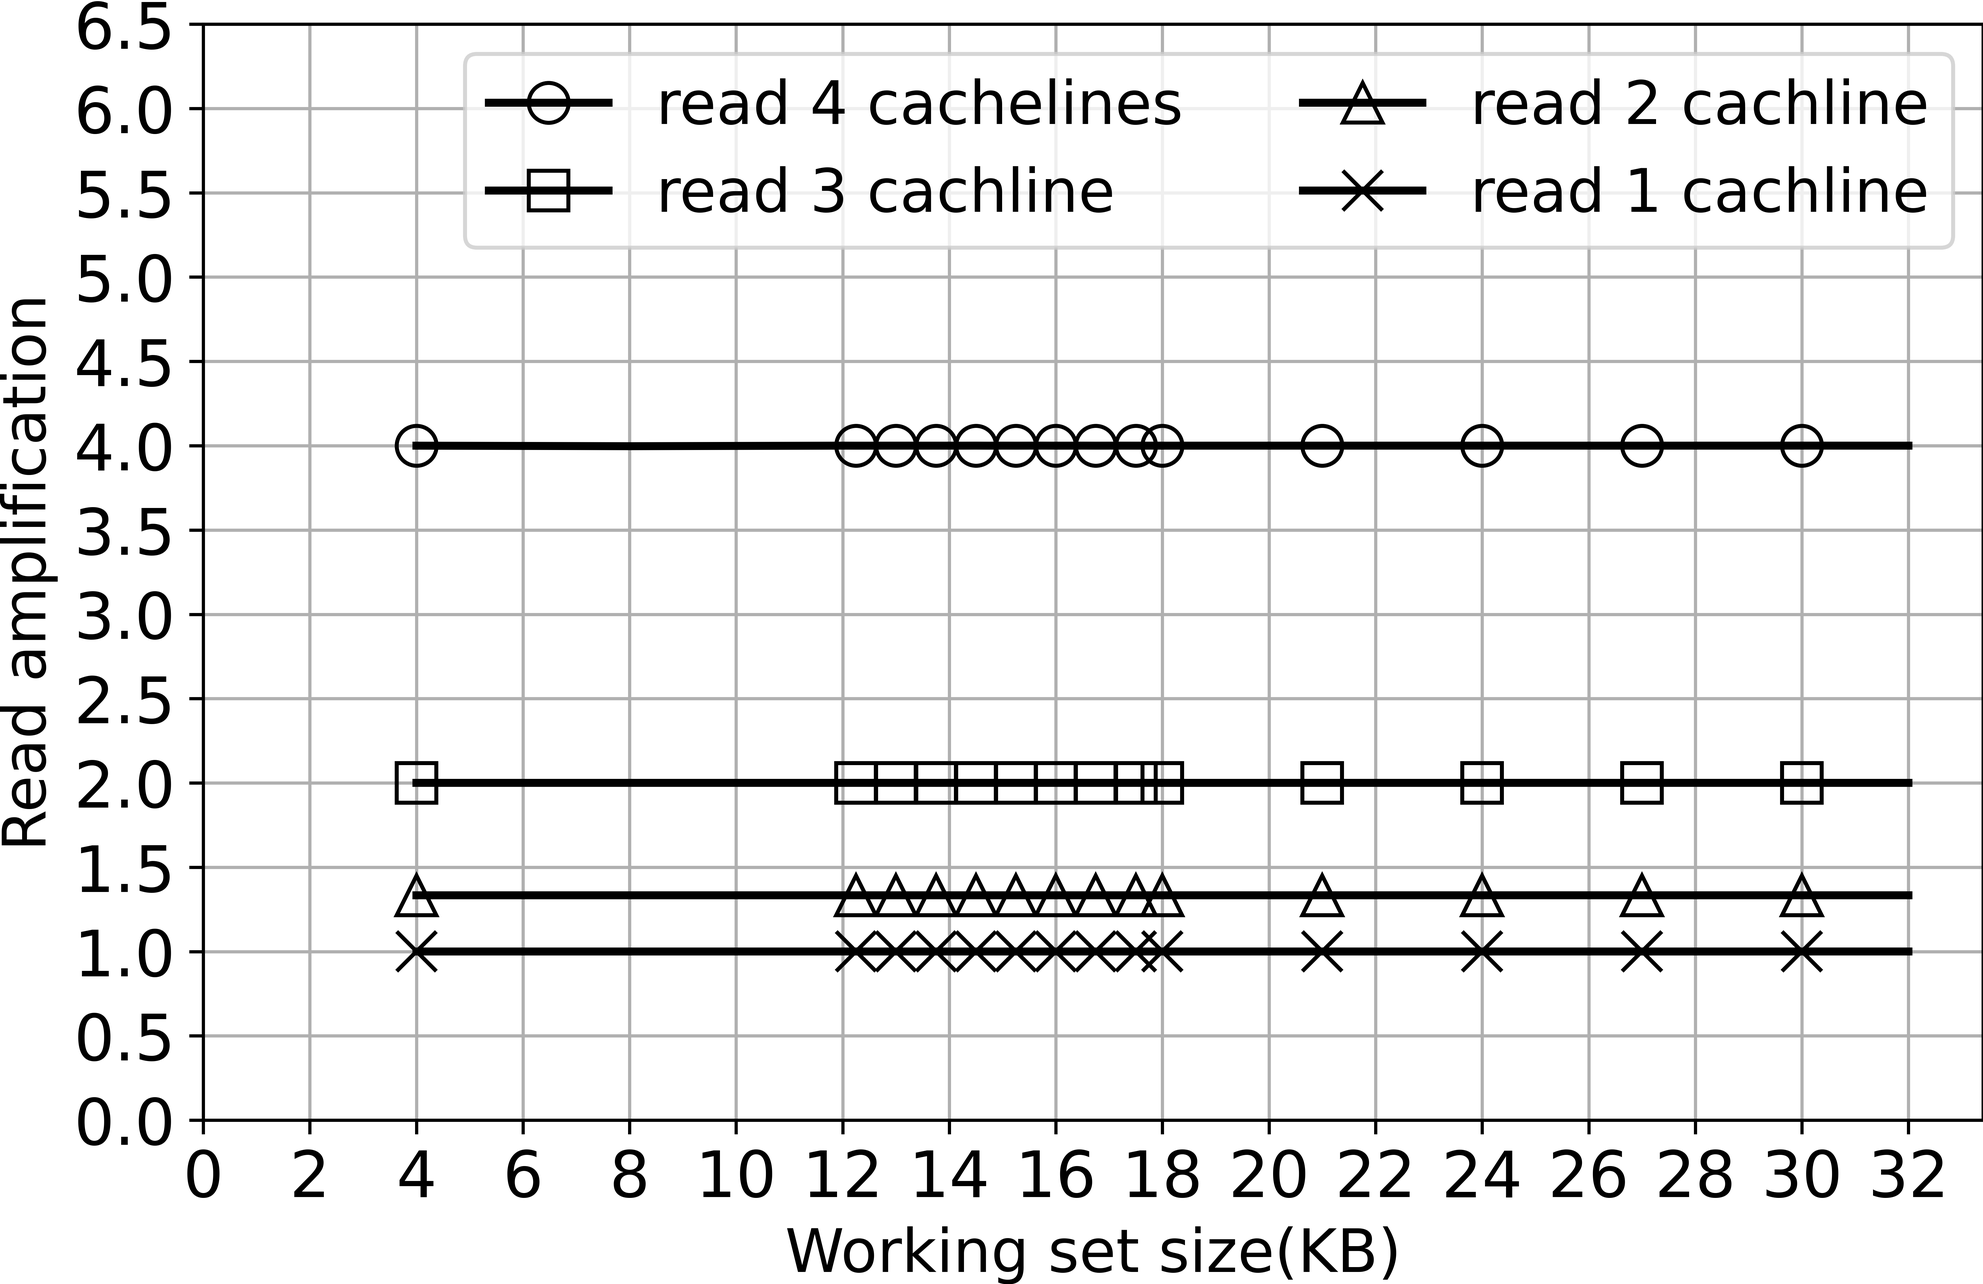
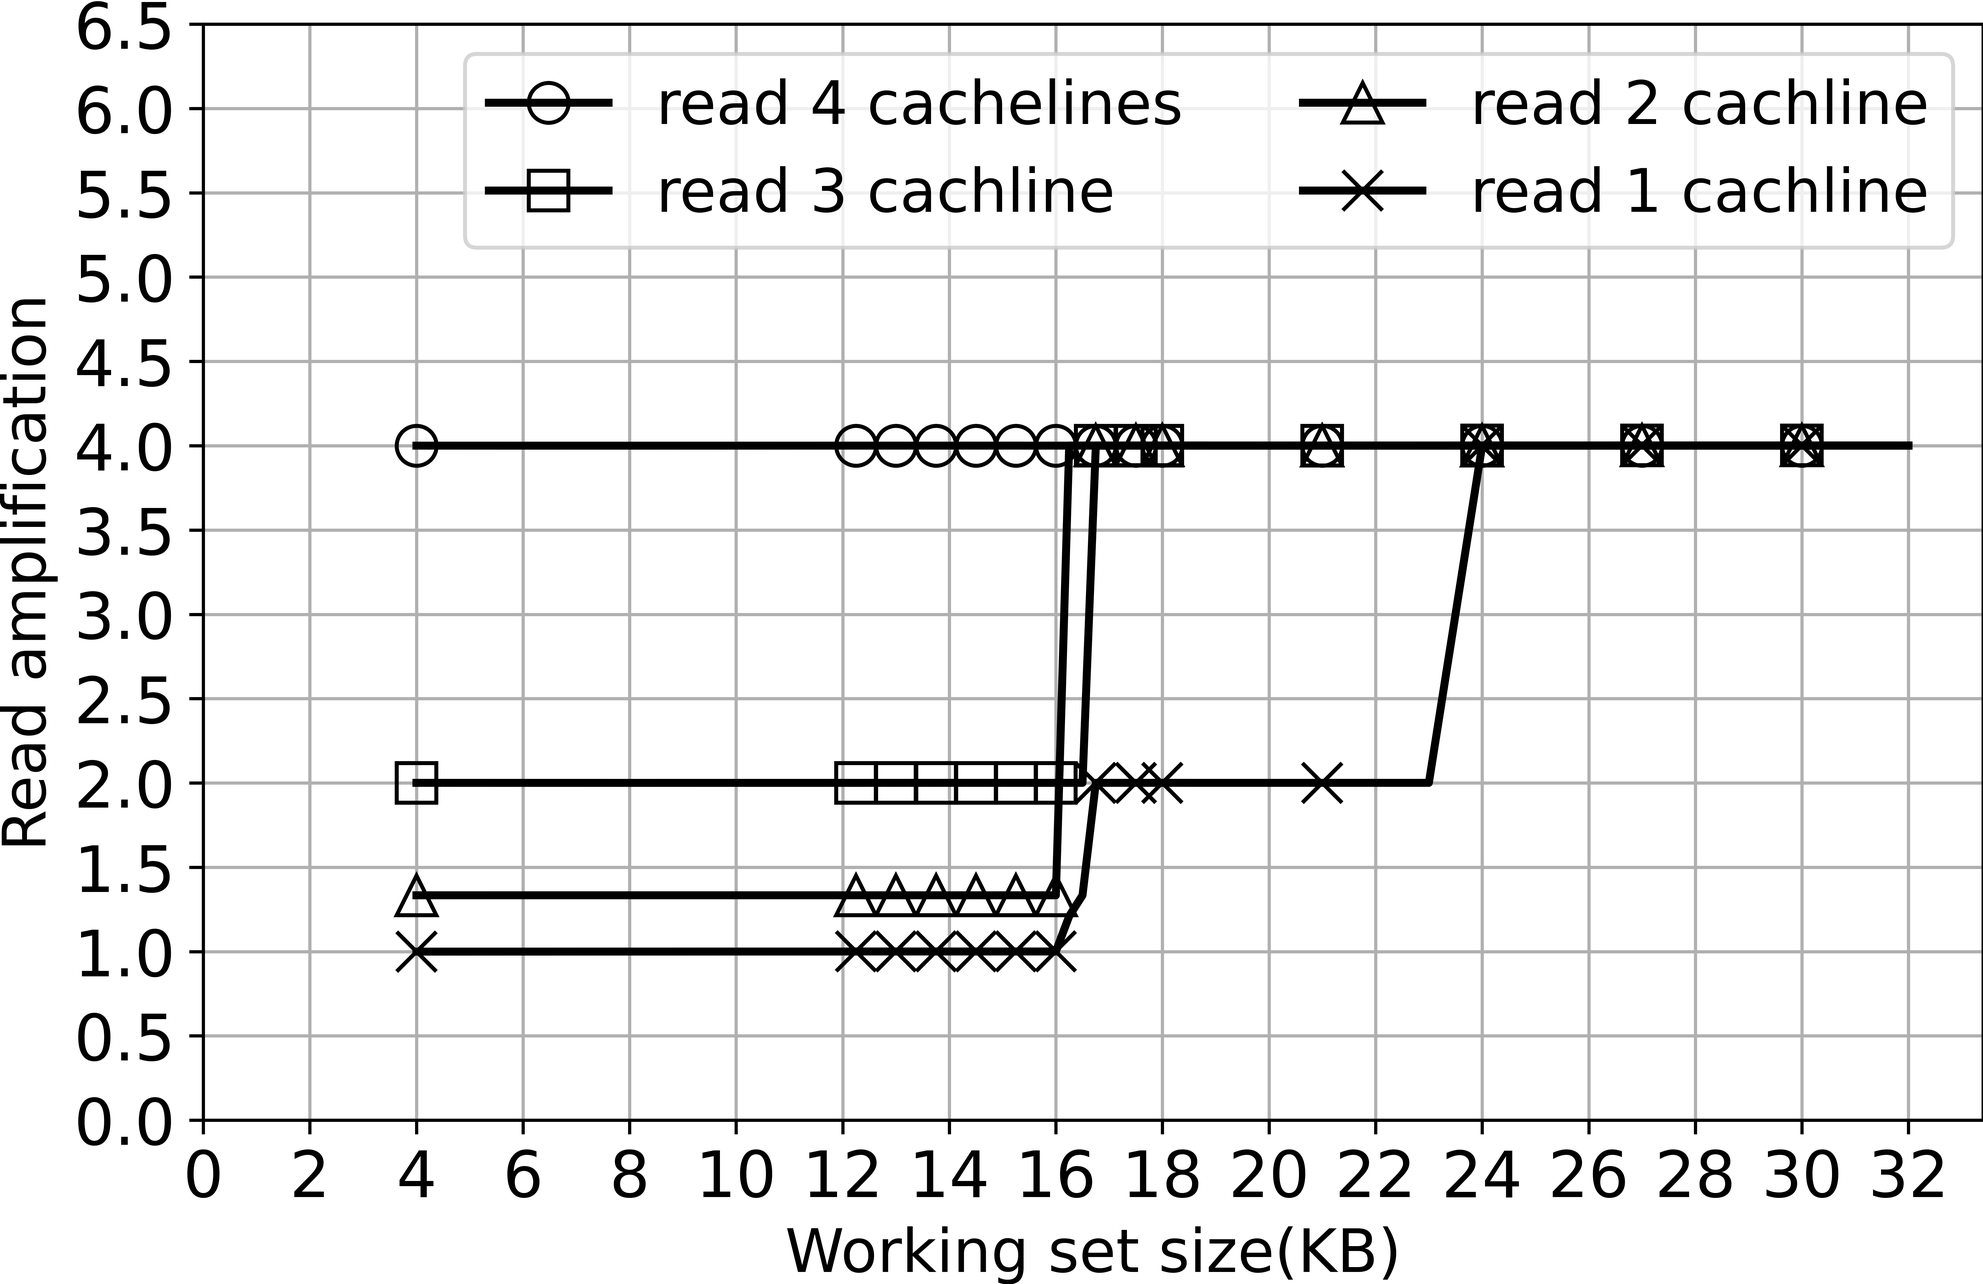
update

diff --git a/run.py b/run.py
@@ -61,34 +61,35 @@ def prepare_microbench():
 def run_microbench_except_prefetching():
     build_dir = os.path.join(this_file_dir, "build_benchmark", "bin")
 
-    init_command = "echo >" + os.path.join(tmp_dir,  "task0.log")
-    os.system(init_command)
-    rd_amp_run_cmd = "numactl -N 0 " + os.path.join(build_dir, "microbench") + " -test 0 >> " + os.path.join(tmp_dir,  "task0.log")
-    os.system(rd_amp_run_cmd)
+    # init_command = "echo >" + os.path.join(tmp_dir,  "task0.log")
+    # os.system(init_command)
+    # rd_amp_run_cmd = "numactl -N 0 " + os.path.join(build_dir, "microbench") + " -test 0 >> " + os.path.join(tmp_dir,  "task0.log")
+    # os.system(rd_amp_run_cmd)
 
-    init_command = "echo >" + os.path.join(tmp_dir,  "task2.log")
-    os.system(init_command)
-    wr_buf_run_cmd = "numactl -N 0 " + os.path.join(build_dir, "microbench") + " -test 2 >> " + os.path.join(tmp_dir,  "task2.log")
-    os.system(wr_buf_run_cmd)
+    # init_command = "echo >" + os.path.join(tmp_dir,  "task2.log")
+    # os.system(init_command)
+    # wr_buf_run_cmd = "numactl -N 0 " + os.path.join(build_dir, "microbench") + " -test 2 >> " + os.path.join(tmp_dir,  "task2.log")
+    # os.system(wr_buf_run_cmd)
 
-    init_command = "echo >" + os.path.join(tmp_dir,  "task4.log")
-    os.system(init_command)
-    seperate_rd_wr_buf_cmd = "numactl -N 0 " + os.path.join(build_dir, "microbench") + " -test 4 >> " + os.path.join(tmp_dir,  "task4.log")
-    os.system(seperate_rd_wr_buf_cmd)
+    # init_command = "echo >" + os.path.join(tmp_dir,  "task4.log")
+    # os.system(init_command)
+    # seperate_rd_wr_buf_cmd = "numactl -N 0 " + os.path.join(build_dir, "microbench") + " -test 4 >> " + os.path.join(tmp_dir,  "task4.log")
+    # os.system(seperate_rd_wr_buf_cmd)
 
-    init_command = "echo >" + os.path.join(tmp_dir,  "task5.log")
-    os.system(init_command)
-    rap_cmd = "numactl -N 0 " + os.path.join(build_dir, "microbench") + " -test 5 >> " + os.path.join(tmp_dir,  "task5.log")
-    os.system(rap_cmd)
+    # init_command = "echo >" + os.path.join(tmp_dir,  "task5.log")
+    # os.system(init_command)
+    # rap_cmd = "numactl -N 0 " + os.path.join(build_dir, "microbench") + " -test 5 >> " + os.path.join(tmp_dir,  "task5.log")
+    # os.system(rap_cmd)
 
-    init_command = "echo >" + os.path.join(tmp_dir,  "task5_dram.log")
-    os.system(init_command)
-    rap_cmd = "numactl -N 0 " + os.path.join(build_dir, "microbench") + " -nopmm -test 5 >> " + os.path.join(tmp_dir,  "task5_dram.log")
-    os.system(rap_cmd)
+    # init_command = "echo >" + os.path.join(tmp_dir,  "task5_dram.log")
+    # os.system(init_command)
+    # rap_cmd = "numactl -N 0 " + os.path.join(build_dir, "microbench") + " -nopmm -test 5 >> " + os.path.join(tmp_dir,  "task5_dram.log")
+    # os.system(rap_cmd)
 
     init_command = "echo >" + os.path.join(tmp_dir,  "task6.log")
     os.system(init_command)
     access_lat_cmd = "numactl -N 0 " + os.path.join(build_dir, "microbench") + " -test 6 >> " + os.path.join(tmp_dir,  "task6.log")
+    print(access_lat_cmd)
     os.system(access_lat_cmd)
 
 def run_microbench_prefetching():
@@ -148,14 +149,19 @@ def format_logs():
 
     os.system(python_path + " " + tool_path +
               " -log_path=" + os.path.join(tmp_dir, "task5.log") +
-              " -config_path=" + os.path.join(this_file_dir, "tools", "microbench_config5.json") +
+              " -config_path=" + os.path.join(this_file_dir, "tools", "microbench_config5_0.json") +
               " -tmp_dir=" + tmp_dir +
               " -out_dir=" + micro_bench_dir)
-    # os.system(python_path + " " + tool_path +
-    #           " -log_path=" + os.path.join(tmp_dir, "task6.log") +
-    #           " -config_path=" + os.path.join(this_file_dir, "tools", "microbench_config6.json") +
-    #           " -tmp_dir=" + tmp_dir +
-    #           " -out_dir=" + case_study_dir)
+    os.system(python_path + " " + tool_path +
+              " -log_path=" + os.path.join(tmp_dir, "task5_dram.log") +
+              " -config_path=" + os.path.join(this_file_dir, "tools", "microbench_config5_1.json") +
+              " -tmp_dir=" + tmp_dir +
+              " -out_dir=" + micro_bench_dir)              
+    os.system(python_path + " " + tool_path +
+              " -log_path=" + os.path.join(tmp_dir, "task6.log") +
+              " -config_path=" + os.path.join(this_file_dir, "tools", "microbench_config6.json") +
+              " -tmp_dir=" + tmp_dir +
+              " -out_dir=" + micro_bench_dir)
 
 def plot_results():
     pass
@@ -164,7 +170,7 @@ def plot_results():
 # run_case_study(8, "/mnt/pmem")
 
 # prepare_microbench()
-run_microbench_except_prefetching()
+# run_microbench_except_prefetching()
 
-# format_logs()
+format_logs()
 

diff --git a/tools/plot_bench_lat.py b/tools/plot_bench_lat.py
@@ -1,0 +1,105 @@
+
+import matplotlib.pyplot as plt
+import numpy as np
+import matplotlib.ticker as ticker
+import pandas as pd
+import os
+
+this_file_dir = os.path.abspath(os.path.dirname(__file__))
+
+mks = ["o", "v", "^", "<", "*", "x", "p", "s", "D", "P"]
+lineType = ["-", "--", ":", "-."]
+
+data_path = os.path.join(this_file_dir, "..", "output",
+                         "micro_bench", "microbench_lat.csv")
+df = pd.read_csv(data_path)
+xAxis = df["wss"].to_numpy()
+
+fenced_seq_clwb = df[" clwb sfence seq Ptr cycle"].to_numpy()
+fenced_rand_clwb = df[" clwb sfence rand Ptr cycle"].to_numpy()
+fenced_seq_nt = df[" nt store sfence seq Ptr cycle"].to_numpy()
+fenced_rand_nt = df[" nt store sfence rand Ptr cycle"].to_numpy()
+
+unfenced_seq_clwb = df[" clwb seq Ptr cycle"].to_numpy()
+unfenced_rand_clwb = df[" clwb rand Ptr cycle"].to_numpy()
+unfenced_seq_nt = df[" nt store seq Ptr cycle"].to_numpy()
+unfenced_rand_nt = df[" nt store rand Ptr cycle"].to_numpy()
+
+
+seq_rd = df[" rd seq Ptr cycle"].to_numpy()
+rand_rd = df[" rd rand Ptr cycle"].to_numpy()
+calc_offset_seq_nt = df[" nt store seq Calc cycle"].to_numpy()
+calc_offset_rand_nt = df[" nt store rand Calc cycle"].to_numpy()
+fig, (ax0, ax1, ax2) = plt.subplots(1, 3, figsize=(24, 4.7))
+
+ax0.plot(xAxis, fenced_seq_clwb, mks[0]+lineType[0], markerfacecolor='none',
+         label="seq_clwb", color="black", markersize=10, linewidth=2)
+ax0.plot(xAxis, fenced_rand_clwb, mks[1]+lineType[0], markerfacecolor='none',
+         label="rand_clwb", color="black", markersize=10, linewidth=2)
+ax0.plot(xAxis, fenced_seq_nt, mks[2]+lineType[1], markerfacecolor='none',
+         label="seq_nt-store", color="black", markersize=10, linewidth=2)
+ax0.plot(xAxis, fenced_rand_nt, mks[3]+lineType[1], markerfacecolor='none',
+         label="rand_nt-store", color="black", markersize=10, linewidth=2)
+
+ax1.plot(xAxis, unfenced_seq_clwb,
+         mks[0]+lineType[0], markerfacecolor='none', color="black", markersize=10, linewidth=2)
+ax1.plot(xAxis, unfenced_rand_clwb,
+         mks[1]+lineType[0], markerfacecolor='none', color="black", markersize=10, linewidth=2)
+ax1.plot(xAxis, unfenced_seq_nt, mks[2]+lineType[1],
+         markerfacecolor='none', color="black", markersize=10, linewidth=2)
+ax1.plot(xAxis, unfenced_rand_nt, mks[3]+lineType[1],
+         markerfacecolor='none', color="black", markersize=10, linewidth=2)
+
+ax2.plot(xAxis, seq_rd, mks[4]+lineType[0], markerfacecolor='none',
+         label="seq_rd", color="black", markersize=10, linewidth=2)
+ax2.plot(xAxis, rand_rd, mks[5]+lineType[0], markerfacecolor='none',
+         label="rand_rd", color="black", markersize=10, linewidth=2)
+ax2.plot(xAxis, calc_offset_seq_nt, mks[2]+lineType[1],
+         markerfacecolor='none',  color="black", markersize=10, linewidth=2)
+ax2.plot(xAxis, calc_offset_rand_nt,
+         mks[3]+lineType[1], markerfacecolor='none', color="black", markersize=10, linewidth=2)
+
+ax0.set_xscale('log', basex=2)
+ax0.set_xticks(np.logspace(12, 32, 11, base=2))
+ax0.set_yticks(np.arange(0, 1400, 200.0))
+ax0.tick_params(axis='y', labelsize=16)
+ax0.tick_params(axis='x', labelsize=16)
+ax0.set_ylabel("Latency (CPU cycle per element)", fontsize=16)
+ax0.set_xlabel("Working set size (byte)", fontsize=16)
+
+ax1.sharey(ax0)
+ax1.set_xscale('log', basex=2)
+ax1.set_xticks(np.logspace(12, 32, 11, base=2))
+ax1.set_yticks(np.arange(0, 1400, 200.0))
+ax1.tick_params(axis='y', labelsize=16)
+ax1.tick_params(axis='x', labelsize=16)
+ax1.set_xlabel("Working set size (byte)", fontsize=16)
+
+ax2.sharey(ax0)
+ax2.set_xscale('log', basex=2)
+ax2.set_xticks(np.logspace(12, 32, 11, base=2))
+ax2.set_yticks(np.arange(0, 1400, 200.0))
+ax2.tick_params(axis='y', labelsize=16)
+ax2.tick_params(axis='x', labelsize=16)
+ax2.set_xlabel("Working set size (byte)", fontsize=16)
+
+ax0.set_title('(a) Write with strict persistency', fontsize=16, y=-0.3)
+ax0.set_title('(b) Write with relaxed persistency', fontsize=16, y=-0.3)
+ax2.set_title('(c) Latency breakdown of pure reads and writes',
+              fontsize=16, y=-0.3)
+
+
+ax0.grid(linestyle='--')
+ax1.grid(linestyle='--')
+ax2.grid(linestyle='--')
+
+ax0.label_outer()
+ax1.label_outer()
+ax2.label_outer()
+
+
+fig.legend(fontsize=16, loc='upper center', ncol=6, bbox_to_anchor=(0.5, 1.02))
+
+foo_fig = plt.gcf()  # 'get current figure'
+foo_fig.savefig(os.path.join(this_file_dir, "..", "output", "micro_bench", "lat.png"),
+                bbox_inches='tight', format='png', dpi=1000, pad_inches=0.0)

diff --git a/tools/plot_bench_read_after_persist.py b/tools/plot_bench_read_after_persist.py
@@ -11,28 +11,25 @@ lineType = ["-", "--",":", "-." ]
 
 
 data_path_pm = os.path.join(this_file_dir, "..", "output", "micro_bench", "microbench_read_after_persist.csv")
+data_path_dram = os.path.join(this_file_dir, "..", "output", "micro_bench", "microbench_read_after_persist_dram.csv")
 
-df = pd.read_csv(data_path_pm)
-
-distance= df["distance"].to_numpy()
-
-path = "./read_after_flush.txt"
-textdata = np.loadtxt(path)
-distance= textdata[:,0]
-CPU_cycle_pm_mfence = textdata[:,1]
-CPU_cycle_pm_sfence = textdata[:,2]
-CPU_cycle_dram_sfence= textdata[:,3]
-CPU_cycle_dram_mfence= textdata[:,4]
-CPU_cycle_pm_nt_mfence= textdata[:,5]
-CPU_cycle_pm_nt_sfence= textdata[:,5]
+df_pm = pd.read_csv(data_path_pm)
+df_dram = pd.read_csv(data_path_dram)
+distance = df_pm["distance"].to_numpy()[0:45]
+CPU_cycle_pm_mfence = df_pm[" wr_clwb_mfence RAP lat"].to_numpy()[0:45]
+CPU_cycle_pm_sfence = df_pm[" wr_clwb_sfence RAP lat"].to_numpy()[0:45]
+CPU_cycle_dram_mfence= df_dram[" wr_clwb_mfence RAP lat"].to_numpy()[0:45]
+CPU_cycle_dram_sfence= df_dram[" wr_clwb_sfence RAP lat"].to_numpy()[0:45]
+CPU_cycle_pm_nt_mfence= df_pm[" wr_nt_mfence RAP lat"].to_numpy()[0:45]
+CPU_cycle_pm_nt_sfence= df_pm[" wr_nt_sfence RAP lat"].to_numpy()[0:45]
 
 fig, ax1 = plt.subplots(figsize = (8,4.96))
 plt.grid()
 plot0=ax1.plot(distance,CPU_cycle_pm_mfence,mks[0]+lineType[0], label = "PM clwb + mfence",markevery=3, markerfacecolor='none', color = "black", markersize = 10, linewidth=2)
 plot3=ax1.plot(distance,CPU_cycle_pm_sfence,mks[1]+lineType[1], label = "PM clwb + sfence",markevery=3, markerfacecolor='none', color = "black", markersize = 10, linewidth=2)
 plot7=ax1.plot(distance,CPU_cycle_pm_nt_sfence,"D"+lineType[1], label = "PM nt-store + sfence",markevery=3, markerfacecolor='none', color = "black", markersize = 10, linewidth=2)
-plot4=ax1.plot(distance,CPU_cycle_dram_sfence,"s"+lineType[0], label = "DRAM clwb + mfence",markevery=3, markerfacecolor='none', color = "black", markersize = 10, linewidth=2)
-plot5=ax1.plot(distance,CPU_cycle_dram_mfence,mks[10]+lineType[1], label = "DRAM clwb + sfence",markevery=3, markerfacecolor='none', color = "black", markersize = 10, linewidth=2)
+plot4=ax1.plot(distance,CPU_cycle_dram_sfence,"s"+lineType[0], label = "DRAM clwb + sfence",markevery=3, markerfacecolor='none', color = "black", markersize = 10, linewidth=2)
+plot5=ax1.plot(distance,CPU_cycle_dram_mfence,mks[10]+lineType[1], label = "DRAM clwb + mfence",markevery=3, markerfacecolor='none', color = "black", markersize = 10, linewidth=2)
 
 ax1.set_ylim(-200,2800)
 # ax2.set_ylim(-1.5,7)
@@ -49,4 +46,4 @@ ax1.legend(fontsize = 16)
 # ax2.set_ylabel('write back ratio (media write/memory controller write)')
 
 foo_fig = plt.gcf() # 'get current figure'
-foo_fig.savefig('./read_after_flush.eps',bbox_inches='tight', format='eps', dpi=1000,pad_inches=0.0)
+foo_fig.savefig(os.path.join(this_file_dir, "..", "output", "micro_bench", "read_after_persist.png"),bbox_inches='tight', format='png', dpi=1000,pad_inches=0.0)

diff --git a/micro_benchmarks/cases/lat.cpp b/micro_benchmarks/cases/lat.cpp
@@ -237,7 +237,9 @@ void access_lat(void *addr, uint64_t max_size)
                 lat += item.avg_cycles_;
             }
             std::cout << "-------result--------" << std::endl;
-            std::cout << results.at(0).work_type_ << " " << results.at(0).order_ << std::endl;
+            std::cout << results.at(0).work_type_ << " "
+                      << results.at(0).traverse_type_ << " "
+                      << results.at(0).order_ << std::endl;
             std::cout << "[imc wr]:[" << imc_write
                       << "] [imc rd]:[" << imc_read
                       << "] [media wr]:[" << media_write

diff --git a/README.md b/README.md
@@ -1,5 +1,123 @@
+
+# How
 libvmem-dev
 libpmemobj-dev
 libssl-dev
 libgflags-dev 
 numactl
+
+# Persistent memory study
+
+Implementaion of paper **Characterizing the Performance of Intel Optane Persistent Memory -- A Close Look at its On-DIMM Buffering**
+
+This paper is to appear in EuroSys 2022.
+
+## Table of Contents
+
+- [Background](#background)
+- [Prerequisites](#prerequisites)
+- [Usage](#usage)
+	- [Generator](#generator)
+- [Badge](#badge)
+- [Example Readmes](#example-readmes)
+- [Related Efforts](#related-efforts)
+- [Maintainers](#maintainers)
+- [Contributing](#contributing)
+- [License](#license)
+
+## Background
+
+## Prerequisites
+
+### Hardware requirements
+Your machine 
+
+Please make sure your machine supports AVX512, CLWB, CLFLUSH and CLFLUSHOPT instruction sets. The persistent memory should be configured as non-interleaved, and we get all the results on a single Optane DC Persistent memory DIMM.
+### Software requirements
+
+
+Standard Readme started with the issue originally posed by [@maxogden](https://github.com/maxogden) over at [feross/standard](https://github.com/feross/standard) in [this issue](https://github.com/feross/standard/issues/141), about whether or not a tool to standardize readmes would be useful. A lot of that discussion ended up in [zcei's standard-readme](https://github.com/zcei/standard-readme/issues/1) repository. While working on maintaining the [IPFS](https://github.com/ipfs) repositories, I needed a way to standardize Readmes across that organization. This specification started as a result of that.
+
+> Your documentation is complete when someone can use your module without ever
+having to look at its code. This is very important. This makes it possible for
+you to separate your module's documented interface from its internal
+implementation (guts). This is good because it means that you are free to
+change the module's internals as long as the interface remains the same.
+
+> Remember: the documentation, not the code, defines what a module does.
+
+~ [Ken Williams, Perl Hackers](http://mathforum.org/ken/perl_modules.html#document)
+
+Writing READMEs is way too hard, and keeping them maintained is difficult. By offloading this process - making writing easier, making editing easier, making it clear whether or not an edit is up to spec or not - you can spend less time worrying about whether or not your initial documentation is good, and spend more time writing and using code.
+
+By having a standard, users can spend less time searching for the information they want. They can also build tools to gather search terms from descriptions, to automatically run example code, to check licensing, and so on.
+
+The goals for this repository are:
+
+1. A well defined **specification**. This can be found in the [Spec document](spec.md). It is a constant work in progress; please open issues to discuss changes.
+2. **An example README**. This Readme is fully standard-readme compliant, and there are more examples in the `example-readmes` folder.
+3. A **linter** that can be used to look at errors in a given Readme. Please refer to the [tracking issue](https://github.com/RichardLitt/standard-readme/issues/5).
+4. A **generator** that can be used to quickly scaffold out new READMEs. See [generator-standard-readme](https://github.com/RichardLitt/generator-standard-readme).
+5. A **compliant badge** for users. See [the badge](#badge).
+
+## Install
+
+This project uses [node](http://nodejs.org) and [npm](https://npmjs.com). Go check them out if you don't have them locally installed.
+
+```sh
+$ npm install --global standard-readme-spec
+```
+
+## Usage
+
+This is only a documentation package. You can print out [spec.md](spec.md) to your console:
+
+```sh
+$ standard-readme-spec
+# Prints out the standard-readme spec
+```
+
+### Generator
+
+To use the generator, look at [generator-standard-readme](https://github.com/RichardLitt/generator-standard-readme). There is a global executable to run the generator in that package, aliased as `standard-readme`.
+
+## Badge
+
+If your README is compliant with Standard-Readme and you're on GitHub, it would be great if you could add the badge. This allows people to link back to this Spec, and helps adoption of the README. The badge is **not required**.
+
+[![standard-readme compliant](https://img.shields.io/badge/readme%20style-standard-brightgreen.svg?style=flat-square)](https://github.com/RichardLitt/standard-readme)
+
+To add in Markdown format, use this code:
+
+```
+[![standard-readme compliant](https://img.shields.io/badge/readme%20style-standard-brightgreen.svg?style=flat-square)](https://github.com/RichardLitt/standard-readme)
+```
+
+## Example Readmes
+
+To see how the specification has been applied, see the [example-readmes](example-readmes/).
+
+## Related Efforts
+
+- [Art of Readme](https://github.com/noffle/art-of-readme) - 💌 Learn the art of writing quality READMEs.
+- [open-source-template](https://github.com/davidbgk/open-source-template/) - A README template to encourage open-source contributions.
+
+## Maintainers
+
+[@RichardLitt](https://github.com/RichardLitt).
+
+## Contributing
+
+Feel free to dive in! [Open an issue](https://github.com/RichardLitt/standard-readme/issues/new) or submit PRs.
+
+Standard Readme follows the [Contributor Covenant](http://contributor-covenant.org/version/1/3/0/) Code of Conduct.
+
+### Contributors
+
+This project exists thanks to all the people who contribute. 
+<a href="https://github.com/RichardLitt/standard-readme/graphs/contributors"><img src="https://opencollective.com/standard-readme/contributors.svg?width=890&button=false" /></a>
+
+
+## License
+
+[MIT](LICENSE) © Richard Littauer
